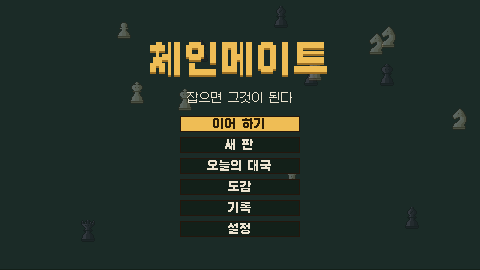
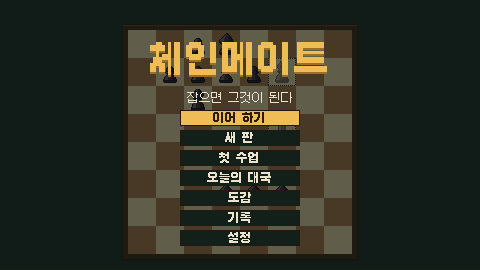
타이틀 시연 스크린샷을 더했다 — 22-title-demo, 바뀐 01-title

diff --git a/docs/tasks/onboarding-progress.md b/docs/tasks/onboarding-progress.md
@@ -6,3 +6,4 @@
 - 1 미리 보기: 조회(solver) · 화면 · 연기 시험 · 스크린샷 20-preview(-drop · -reply).
 - 2 목표 막대: 판 위 막대(채움 · 이번 사슬 빗금 · ×2 ×5 ×10 눈금 · 불), 판을 7px 내림.
 - 3 첫 수업: 고정 판 넷(`src/ui/lessons.js`) · 시범 손가락 → 내 차례(누를 곳만) · 타이틀 「첫 수업」 · 설정 「첫 수업 다시」 · 처음 새 판은 수업부터 · 기록 「첫 수업 끝」 · 연기 시험 · 스크린샷 21-lesson-1..4.
+- 4 타이틀 시연: 떨어지는 기물 장식 대신 흐린 판에서 풀이기가 실제 규칙 · 연출로 사슬을 둔다(소리 끔, 어둡게 덮음) · 스크린샷 22-title-demo · 01-title 다시.
